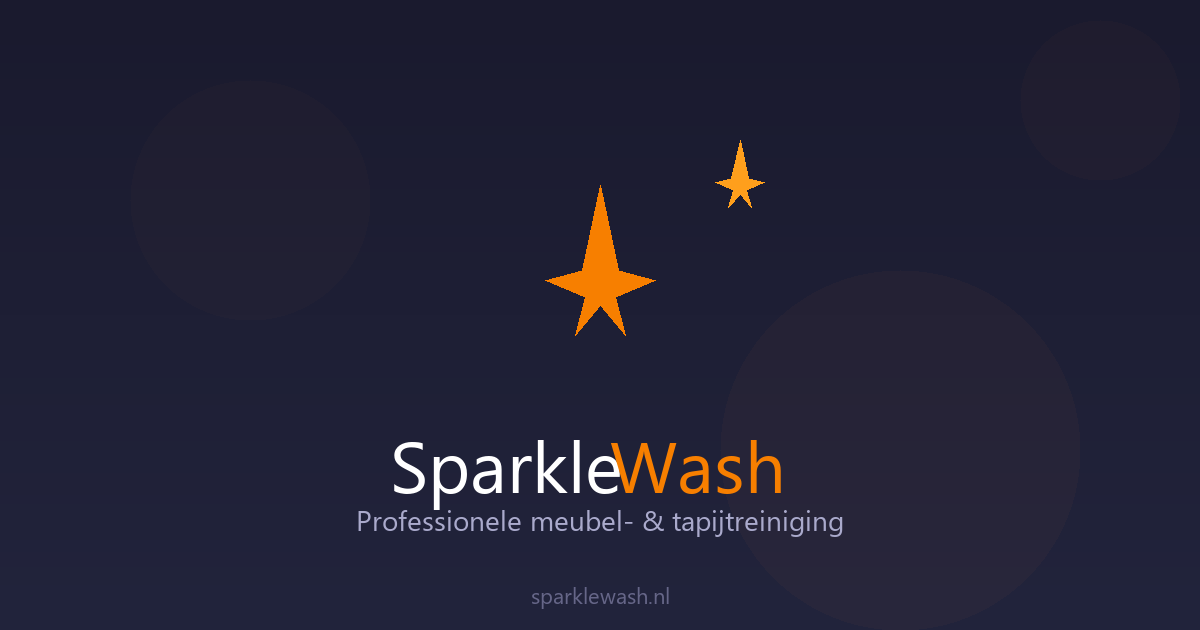
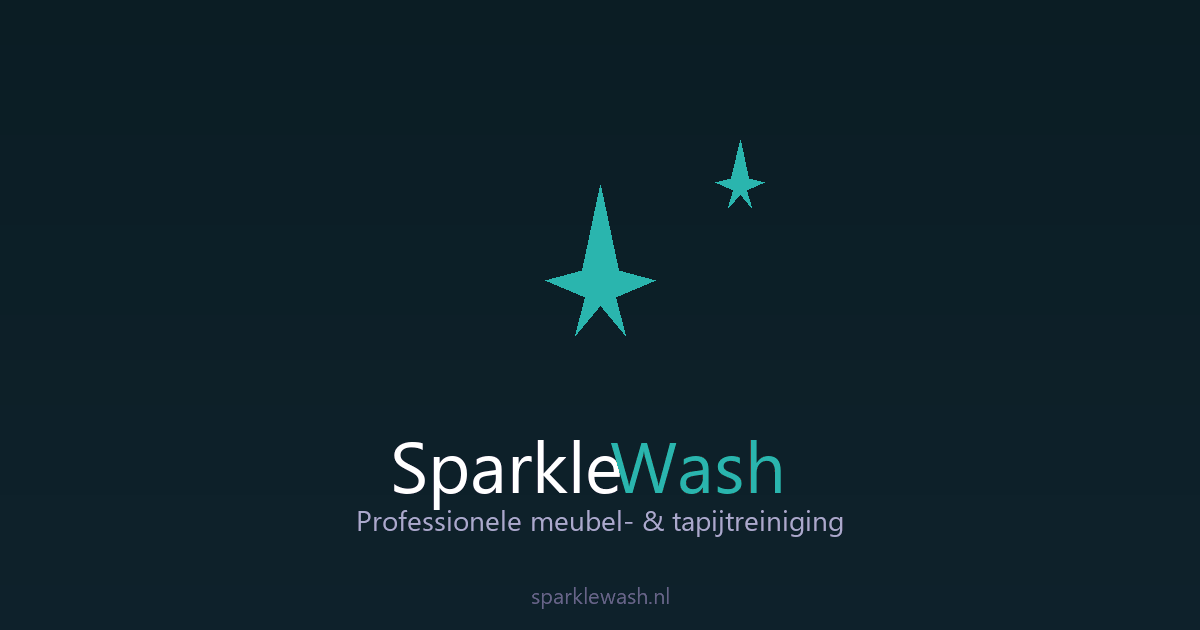
feat: redesign SparkleWash with premium visual system

Changed region(s): [[0.4933, 0.6032, 0.925, 1.0], [0.4625, 0.3016, 0.555, 0.5127], [0.5858, 0.2413, 0.6475, 0.3317]]

diff --git a/css/style.css b/css/style.css
@@ -14,6 +14,13 @@
   --border: #dbe6e8;
   --radius: 12px;
   --shadow: 0 4px 20px rgba(14,124,123,0.10);
+  --ink: #0b1d24;
+  --ink-soft: #12313a;
+  --ivory: #fbfaf6;
+  --sand: #e8dfcc;
+  --champagne: #c8a96b;
+  --bg-card: var(--card-bg);
+  --shadow-premium: 0 24px 70px rgba(11,29,36,0.16);
 }
 
 * { margin:0; padding:0; box-sizing:border-box; }
@@ -1132,3 +1139,178 @@ textarea:focus-visible,
 
 /* Trust bar */
 @media (max-width:480px){.trust-bar{gap:8px;font-size:0.75rem}}
+
+/* ═══════════════════════════════════════════════════════════════
+   SparkleWash Premium — visual system 2026
+   ═══════════════════════════════════════════════════════════════ */
+body { background: var(--ivory); }
+h1, h2, h3, h4, .logo, .footer-logo, .price, .btn {
+  font-family: 'Outfit', 'Inter', sans-serif;
+}
+.container { max-width: 1180px; padding-inline: 28px; }
+.section { padding: 104px 0; }
+.section-title { font-size: clamp(2rem, 4vw, 3.15rem); letter-spacing: -.035em; line-height: 1.08; }
+.section-subtitle { max-width: 680px; font-size: 1.04rem; line-height: 1.75; }
+
+/* Refined top trust strip */
+.trust-bar {
+  min-height: 40px; padding: 9px 24px;
+  display: flex; align-items: center; justify-content: center; flex-wrap: wrap; gap: 12px 34px;
+  background: var(--ink); color: rgba(255,255,255,.82); text-align: center;
+  font-size: .78rem; font-weight: 600; letter-spacing: .035em;
+}
+.trust-bar span { display: inline-flex; align-items: center; }
+.header { background: rgba(251,250,246,.9); border-bottom-color: rgba(11,29,36,.08); }
+.nav-bar { height: 76px; }
+.logo { letter-spacing: -.035em; }
+.nav { gap: 22px; }
+.nav a { font-size: .88rem; letter-spacing: .015em; }
+.lang-btn { border-color: rgba(11,29,36,.12); border-radius: 999px; padding-inline: 12px; }
+
+/* Premium split hero */
+.hero {
+  min-height: 700px; padding: 86px 0 98px; text-align: left;
+  background:
+    radial-gradient(circle at 78% 20%, rgba(14,124,123,.14), transparent 32%),
+    linear-gradient(135deg, #fdfcf8 0%, #f4f0e7 100%);
+}
+.hero::before {
+  content: ''; position: absolute; inset: 0; pointer-events: none;
+  background-image: linear-gradient(rgba(11,29,36,.025) 1px, transparent 1px), linear-gradient(90deg, rgba(11,29,36,.025) 1px, transparent 1px);
+  background-size: 44px 44px; mask-image: linear-gradient(to right, #000, transparent 75%);
+}
+.hero-grid { position: relative; z-index: 2; display: grid; grid-template-columns: minmax(0,1.03fr) minmax(380px,.97fr); gap: 72px; align-items: center; }
+.hero-content { max-width: 660px; }
+.hero-kicker { display: inline-flex; align-items: center; gap: 10px; margin-bottom: 22px; color: var(--accent); font-size: .76rem; font-weight: 800; letter-spacing: .12em; text-transform: uppercase; }
+.hero-kicker-mark { width: 28px; height: 1px; background: var(--champagne); }
+.hero h1 { max-width: 720px; margin-bottom: 22px; color: var(--ink); font-size: clamp(2.65rem, 5.6vw, 5.1rem); line-height: .99; letter-spacing: -.055em; }
+.hero p { max-width: 610px; margin: 0 0 34px; font-size: clamp(1.02rem, 1.8vw, 1.18rem); line-height: 1.75; }
+.hero-buttons { justify-content: flex-start; }
+.btn { min-height: 52px; display: inline-flex; align-items: center; justify-content: center; border-radius: 999px; letter-spacing: .01em; }
+.btn-primary { background: var(--ink); box-shadow: 0 14px 30px rgba(11,29,36,.18); }
+.btn-primary:hover { background: var(--accent); }
+.hero .btn-secondary { color: var(--ink); border-color: rgba(11,29,36,.18); background: rgba(255,255,255,.56); }
+.hero-assurance { display: flex; flex-wrap: wrap; gap: 10px 26px; margin-top: 28px; color: #4e6267; font-size: .8rem; font-weight: 650; }
+.hero-assurance span::before { content: '✓'; margin-right: 8px; color: var(--accent); font-weight: 900; }
+.hero-visual { position: relative; padding: 24px 12px 34px 24px; }
+.hero-visual::before { content: ''; position: absolute; inset: 0 0 12% 10%; border-radius: 44% 44% 12px 12px; background: var(--ink); transform: rotate(2.5deg); }
+.hero-image-shell { position: relative; overflow: hidden; aspect-ratio: 4 / 5; max-height: 560px; border-radius: 220px 220px 18px 18px; background: var(--bg3); box-shadow: var(--shadow-premium); }
+.hero-image-shell img { width: 100%; height: 100%; display: block; object-fit: cover; object-position: center; filter: saturate(.88) contrast(1.03); }
+.hero-image-shell::after { content: ''; position: absolute; inset: 0; box-shadow: inset 0 0 0 1px rgba(255,255,255,.38); border-radius: inherit; pointer-events: none; }
+.hero-result-card { position: absolute; left: -18px; bottom: 0; display: flex; align-items: center; gap: 12px; padding: 15px 22px; border: 1px solid rgba(200,169,107,.5); border-radius: 12px; background: rgba(255,255,255,.94); color: var(--ink); box-shadow: 0 16px 36px rgba(11,29,36,.14); backdrop-filter: blur(12px); font-weight: 750; }
+.hero-result-icon { color: var(--champagne); font-size: 1.4rem; }
+.hero-wave { height: 36px; background: var(--ivory); clip-path: polygon(0 100%,100% 100%,100% 35%,72% 70%,48% 28%,24% 66%,0 38%); }
+
+/* Distinct section rhythms */
+#services { background: var(--ivory); }
+#services .cards { gap: 18px; }
+#services .card { padding: 34px 26px; border: 0; border-top: 2px solid transparent; border-radius: 8px; text-align: left; box-shadow: 0 10px 34px rgba(11,29,36,.07); }
+#services .card:hover { border-top-color: var(--champagne); transform: translateY(-6px); box-shadow: 0 22px 50px rgba(11,29,36,.12); }
+#services .card-icon { width: 50px; height: 50px; margin-bottom: 22px; display: grid; place-items: center; border-radius: 50%; background: rgba(14,124,123,.08); }
+#services .card-icon svg { width: 27px; height: 27px; }
+#services .card h3 { font-size: 1.28rem; }
+#services .card a { font-weight: 700; }
+
+#how { background: var(--ink); }
+#how .section-title { color: #fff; }
+#how .step { border-color: rgba(255,255,255,.1); background: rgba(255,255,255,.055); box-shadow: none; }
+#how .step:hover { border-color: rgba(200,169,107,.55); background: rgba(255,255,255,.08); }
+#how .step h3 { color: #fff; }
+#how .step p { color: rgba(255,255,255,.66); }
+#how .step-number { background: var(--champagne); color: var(--ink); }
+#how .step-icon svg { color: #66c7c4; }
+
+#pricing { background: #edf4f3; }
+#pricing .price-card { border: 0; border-radius: 8px; box-shadow: 0 8px 28px rgba(11,29,36,.065); }
+#pricing .price-card.featured { background: var(--ink); transform: translateY(-8px); box-shadow: var(--shadow-premium); }
+#pricing .price-card.featured h3, #pricing .price-card.featured p { color: #fff; }
+#pricing .price-card.featured .price { color: #7bd2ce; }
+#pricing .featured-tag { background: var(--champagne); color: var(--ink); }
+
+#gallery { background: linear-gradient(145deg, var(--ink) 0%, var(--ink-soft) 100%); }
+#gallery .section-title { color: #fff; }
+#gallery .section-subtitle { color: rgba(255,255,255,.68); }
+#gallery .gallery-grid { grid-template-columns: repeat(2,minmax(0,1fr)); gap: 26px; }
+#gallery .ba-item { padding: 12px; border-color: rgba(255,255,255,.12); border-radius: 16px; background: rgba(255,255,255,.07); text-align: left; }
+#gallery .ba-item:hover { border-color: rgba(200,169,107,.55); box-shadow: 0 24px 60px rgba(0,0,0,.24); }
+#gallery .ba-title { padding: 12px 12px 0; color: #fff; font-size: 1.25rem; }
+#gallery .ba-desc { padding: 0 12px; color: rgba(255,255,255,.62); }
+#gallery .ba-slider { height: 360px; border-radius: 10px; }
+
+#area { background: var(--ivory); }
+.area-grid > div { padding: 28px; border-left: 2px solid var(--champagne); background: #fff; box-shadow: 0 10px 32px rgba(11,29,36,.06); }
+#about { background: #f0ebe0; }
+#about .about-content { max-width: 820px; text-align: center; }
+#about .stats-grid { max-width: 1000px; margin-inline: auto; }
+#about .stat-card { border: 0; background: rgba(255,255,255,.72); }
+
+#calculator { background: var(--ivory); }
+.calc-box, .booking-box { border: 0; border-radius: 14px; box-shadow: 0 18px 50px rgba(11,29,36,.09); }
+.calc-box h3, .booking-box h3 { color: var(--ink); }
+.calc-qty-row input[type="number"] { color: var(--text); background: #fff; }
+.booking-form input, .booking-form select { color: var(--text); background: #fff; }
+.booking-form select option { color: var(--text); background: #fff; }
+.wizard-step-title, .wizard-service-name, .wizard-summary strong { color: var(--ink); }
+.wizard-step input[type="text"], .wizard-step input[type="email"], .wizard-step input[type="tel"] { color: var(--text); background: #fff; }
+
+#faq { background: #edf4f3; }
+#faq .faq-item { border: 0; border-radius: 8px; box-shadow: 0 5px 20px rgba(11,29,36,.055); }
+#testimonials { background: var(--ivory); }
+.google-reviews-bar { padding: 24px 28px; border: 0; border-left: 3px solid var(--champagne); border-radius: 6px; box-shadow: 0 12px 40px rgba(11,29,36,.07); }
+.testimonial-card { border: 0; border-top: 2px solid var(--champagne); border-radius: 6px; box-shadow: 0 10px 32px rgba(11,29,36,.06); }
+.testimonial-text { font-style: normal; }
+
+.footer { padding-top: 64px; background: var(--ink); border: 0; }
+.footer-logo, .footer-col h4, .footer-social a { color: #fff; }
+.footer p, .footer-links a { color: rgba(255,255,255,.58); }
+.footer-social a, .share-btn { background: rgba(255,255,255,.06); border-color: rgba(255,255,255,.12); }
+.footer-bottom { border-top-color: rgba(255,255,255,.1); }
+.footer-share { display: none; }
+.whatsapp-float { background: var(--cta-whatsapp); }
+.cookie-btn-reject:hover { background: rgba(11,29,36,.06); color: var(--ink); }
+
+@media (max-width: 980px) {
+  .hero { min-height: auto; padding-top: 64px; }
+  .hero-grid { grid-template-columns: 1fr 380px; gap: 38px; }
+  .hero h1 { font-size: clamp(2.7rem,6vw,4rem); }
+  .nav { display: none; }
+  .nav.open { display: flex; flex-direction: column; position: absolute; top: 76px; left: 0; right: 0; padding: 24px 28px; gap: 18px; background: var(--ivory); border-bottom: 2px solid var(--accent); box-shadow: var(--shadow-premium); }
+  .hamburger { display: block; min-width: 44px; min-height: 44px; }
+}
+@media (max-width: 768px) {
+  .container { padding-inline: 20px; }
+  .section { padding: 76px 0; }
+  .nav.open { top: 76px; background: var(--ivory); }
+  .hero { padding: 54px 0 62px; }
+  .hero-grid { grid-template-columns: 1fr; gap: 42px; }
+  .hero-content { text-align: center; margin-inline: auto; }
+  .hero-kicker, .hero-buttons, .hero-assurance { justify-content: center; }
+  .hero p { margin-inline: auto; }
+  .hero-visual { width: min(100%,470px); margin-inline: auto; padding-left: 12px; }
+  .hero-result-card { left: -4px; }
+  #gallery .gallery-grid { grid-template-columns: 1fr; }
+  #gallery .ba-slider { height: 300px; }
+  #about .stats-grid { grid-template-columns: repeat(2,1fr) !important; }
+}
+@media (max-width: 480px) {
+  .trust-bar { gap: 6px 16px; padding-inline: 10px; font-size: .68rem; }
+  .trust-bar span:nth-child(2) { display: none; }
+  .hero h1 { font-size: clamp(2.25rem,12vw,3rem); }
+  .hero p { font-size: .98rem; }
+  .hero-buttons { flex-direction: column; }
+  .hero-buttons .btn { width: 100%; }
+  .hero-assurance { flex-direction: column; gap: 7px; }
+  .hero-image-shell { aspect-ratio: 4 / 4.7; }
+  .hero-result-card { padding: 12px 16px; font-size: .86rem; }
+  #gallery .ba-slider { height: 245px; }
+  #about .stats-grid { grid-template-columns: 1fr !important; }
+  .area-grid > div { padding: 22px; }
+}
+@media (max-width: 380px) {
+  .container { padding-inline: 16px; }
+  .logo { font-size: 1.05rem; gap: 5px; }
+  .logo-icon { width: 22px; height: 22px; }
+  .lang-switcher { gap: 1px; }
+  .lang-btn { width: 30px; min-width: 30px; min-height: 40px; padding: 0; font-size: .64rem; }
+  .hamburger { min-width: 38px; width: 38px; padding: 0; }
+}

diff --git a/index.html b/index.html
@@ -78,7 +78,7 @@
   <link rel="preconnect" href="https://fonts.gstatic.com" crossorigin>
   <link rel="stylesheet" href="https://fonts.googleapis.com/css2?family=Inter:wght@400;500;600;700;800&family=Outfit:wght@400;500;600;700;800&display=swap">
   <link rel="preload" href="images/favicon.svg" as="image" type="image/svg+xml">
-  <link rel="stylesheet" href="css/style.css?v=99">
+  <link rel="stylesheet" href="css/style.css?v=101">
   <link rel="icon" type="image/svg+xml" href="images/favicon.svg">
   <link rel="alternate icon" type="image/png" href="images/favicon.png">
   <link rel="canonical" href="https://sparklewash.nl/" id="canonical-link">
@@ -93,10 +93,9 @@
     </div>
   </div>
     <!-- Trust Bar -->
-  <div class="trust-bar" style="background:var(--accent);color:#fff;text-align:center;padding:10px 16px;font-size:0.85rem;display:flex;justify-content:center;gap:24px;flex-wrap:wrap;">
+  <div class="trust-bar">
     <span data-i18n="trust-rating">⭐ Bekijk onze Google-reviews</span>
     <span data-i18n="trust-customers">📍 Heerlen, Limburg & Grensregio</span>
-    <span data-i18n="trust-team">📅 Professioneel reinigingsteam</span>
     <span data-i18n="trust-guarantee">🛡️ 7 dagen tevredenheidsgarantie</span>
   </div>
 
@@ -128,12 +127,28 @@
 
   <!-- Hero -->
   <section class="hero">
-    <div class="container hero-content">
-      <h1 data-i18n="hero-title">SparkleWash — Tapijtreiniging & Meubelreiniging in Limburg</h1>
-      <p data-i18n="hero-subtitle">Professionele extractiereiniging — tapijten, banken, matrassen, auto-interieurs. Wij komen naar u toe in heel Limburg en de Duitse grensregio.</p>
-      <div class="hero-buttons">
-        <a href="https://wa.me/[phone redacted]?text=Hallo!%20Ik%20wil%20graag%20een%20offerte%20voor%20meubelreiniging." class="btn btn-primary" data-i18n="hero-cta" target="_blank" rel="noopener">Direct via WhatsApp</a>
-        <a href="#pricing" class="btn btn-secondary" data-i18n="hero-pricing">Bekijk prijzen</a>
+    <div class="container hero-grid">
+      <div class="hero-content">
+        <div class="hero-kicker"><span class="hero-kicker-mark"></span><span data-i18n="hero-area-proof">Heerlen, Limburg & Grensregio</span></div>
+        <h1 data-i18n="hero-title">SparkleWash — Tapijtreiniging & Meubelreiniging in Limburg</h1>
+        <p data-i18n="hero-subtitle">Professionele extractiereiniging — tapijten, banken, matrassen, auto-interieurs. Wij komen naar u toe in heel Limburg en de Duitse grensregio.</p>
+        <div class="hero-buttons">
+          <a href="https://wa.me/[phone redacted]?text=Hallo!%20Ik%20wil%20graag%20een%20offerte%20voor%20meubelreiniging." class="btn btn-primary" data-i18n="hero-cta" target="_blank" rel="noopener">Direct via WhatsApp</a>
+          <a href="#gallery" class="btn btn-secondary" data-i18n="gallery-title">Voor & Nadien</a>
+        </div>
+        <div class="hero-assurance">
+          <span data-i18n="hero-review-proof">Bekijk onze Google-reviews</span>
+          <span data-i18n="hero-guarantee-proof">7 dagen tevredenheidsgarantie</span>
+        </div>
+      </div>
+      <div class="hero-visual" aria-label="Resultaat van professionele meubelreiniging">
+        <div class="hero-image-shell">
+          <img src="images/sofa-after.webp" alt="Professioneel gereinigde stoffen bank door SparkleWash" width="1280" height="960" fetchpriority="high">
+        </div>
+        <div class="hero-result-card">
+          <span class="hero-result-icon" aria-hidden="true">✦</span>
+          <span data-i18n="how-step4-title">Resultaat</span>
+        </div>
       </div>
     </div>
     <div class="hero-wave"></div>
@@ -272,7 +287,7 @@
       <div class="gallery-grid">
         <!-- Tile 1: Sofa/Bank -->
         <div class="ba-item" data-service="sofa">
-          <h3 class="ba-title" data-i18n="gallery-item-sofa">🛋️ Bank & Fauteuil</h3>
+          <h3 class="ba-title" data-i18n="gallery-item-sofa">Bank & Fauteuil</h3>
           <p class="ba-desc" data-i18n="gallery-item-sofa-desc">Voor en na grondige extractiereiniging van een stoffen bank. Vlekken en geuren verwijderd.</p>
           <div class="ba-slider" data-ba="sofa">
             <div class="ba-img ba-img-after" data-label-after="Po" style="background-image: url('images/sofa-after.webp'); background-size: cover; background-position: center;">
@@ -288,7 +303,7 @@
 
         <!-- Tile 3: Velvet Sofa (Turcja klientka) -->
         <div class="ba-item" data-service="sofa">
-          <h3 class="ba-title" data-i18n="gallery-item-velvet">🛋️ Bank Velvet — Geleen</h3>
+          <h3 class="ba-title" data-i18n="gallery-item-velvet">Bank Velvet — Geleen</h3>
           <p class="ba-desc" data-i18n="gallery-item-velvet-desc">Velvet bank gereinigd na jaren gebruik. Opvallend verschil voor en na extractiereiniging.</p>
           <div class="ba-slider" data-ba="velvet">
             <div class="ba-img ba-img-after" data-label-after="Po" style="background-image: url('images/portfolio-sofa1-after.webp'); background-size: cover; background-position: center;">
@@ -555,8 +570,8 @@
     <svg viewBox="0 0 24 24" width="26" height="26" fill="currentColor" aria-hidden="true"><path d="M17.472 14.382c-.297-.149-1.758-.867-2.03-.967-.273-.099-.471-.148-.67.15-.197.297-.767.966-.94 1.164-.173.199-.347.223-.644.075-.297-.15-1.255-.463-2.39-1.475-.883-.788-1.48-1.761-1.653-2.059-.173-.297-.018-.458.13-.606.134-.133.298-.347.446-.52.149-.174.198-.298.298-.497.099-.198.05-.371-.025-.52-.075-.149-.669-1.612-.916-2.207-.242-.579-.487-.5-.669-.51-.173-.008-.371-.01-.57-.01-.198 0-.52.074-.792.372-.272.297-1.04 1.016-1.04 2.479 0 1.462 1.065 2.875 1.213 3.074.149.198 2.096 3.2 5.077 4.487.709.306 1.262.489 1.694.625.712.227 1.36.195 1.871.118.571-.085 1.758-.719 2.006-1.413.248-.694.248-1.289.173-1.413-.074-.124-.272-.198-.57-.347m-5.421 7.403h-.004a9.87 9.87 0 01-5.031-1.378l-.361-.214-3.741.982.998-3.648-.235-.374a9.86 9.86 0 01-1.51-5.26c.001-5.45 4.436-9.884 9.888-9.884 2.64 0 5.122 1.03 6.988 2.898a9.825 9.825 0 012.893 6.994c-.003 5.45-4.437 9.884-9.885 9.884m8.413-18.297A11.815 11.815 0 0012.05 0C5.495 0 .16 5.335.157 11.892c0 2.096.547 4.142 1.588 5.945L.057 24l6.305-1.654a11.882 11.882 0 005.683 1.448h.005c6.554 0 11.89-5.335 11.893-11.893a11.821 11.821 0 00-3.48-8.413z"/></svg>
   </a>
 
-  <script src="js/i18n.js?v=99"></script>
-  <script src="js/slider.js?v=99"></script>
+  <script src="js/i18n.js?v=101"></script>
+  <script src="js/slider.js?v=101"></script>
   <script src="js/main.js?v=99"></script>
 
   <script type="application/ld+json">

diff --git a/js/i18n.js b/js/i18n.js
@@ -201,7 +201,7 @@ const I18N = {
       'gallery-subtitle': 'Bekijk onze resultaten — echte voorbeelden van onze reinigingen in Limburg en omgeving.',
       'gallery-item-sofa': 'Bank & Fauteuil',
       'gallery-item-sofa-desc': 'Voor en na grondige extractiereiniging van een stoffen bank. Vlekken en geuren verwijderd.',
-      'gallery-item-velvet': '🛋️ Bank Velvet — Geleen',
+      'gallery-item-velvet': 'Bank Velvet — Geleen',
       'gallery-item-velvet-desc': 'Velvet bank gereinigd na jaren gebruik. Opvallend verschil voor en na extractiereiniging.',
       'gallery-item-carpet': 'Tapijt & Vloerkleed',
       'gallery-item-carpet-desc': 'Een vloerkleed na professionele extractiereiniging. Diep gereinigd tot in de vezels.',
@@ -306,6 +306,9 @@ const I18N = {
       'trust-customers': '📍 Heerlen, Limburg & Grensregio',
       'trust-team': '📅 Professioneel reinigingsteam',
       'trust-guarantee': '🛡️ 7 dagen tevredenheidsgarantie',
+      'hero-area-proof': 'Heerlen, Limburg & Grensregio',
+      'hero-review-proof': 'Bekijk onze Google-reviews',
+      'hero-guarantee-proof': '7 dagen tevredenheidsgarantie',
     },
     de: {
       'sofa-page-title': 'Sofa & Sessel Reinigung Heerlen — SparkleWash',
@@ -505,7 +508,7 @@ const I18N = {
       'gallery-subtitle': 'Sehen Sie sich unsere Ergebnisse an — echte Beispiele unserer Reinigungen in Limburg und Umgebung.',
       'gallery-item-sofa': 'Sofa & Sessel',
       'gallery-item-sofa-desc': 'Vor und nach einer gründlichen Extraktionsreinigung eines Stoffsofas. Flecken und Gerüche entfernt.',
-      'gallery-item-velvet': '🛋️ Sofa Velvet — Geleen',
+      'gallery-item-velvet': 'Sofa Velvet — Geleen',
       'gallery-item-velvet-desc': 'Velvet-Sofa nach jahrelanger Nutzung gereinigt. Auffälliger Unterschied vor und nach der Extraktionsreinigung.',
       'gallery-item-carpet': 'Teppich & Läufer',
       'gallery-item-carpet-desc': 'Ein Teppich nach professioneller Extraktionsreinigung. Tiefengereinigt bis in die Fasern.',
@@ -610,6 +613,9 @@ const I18N = {
       'trust-customers': '📍 Heerlen, Limburg & Grenzregion',
       'trust-team': '📅 Professionelles Reinigungsteam',
       'trust-guarantee': '🛡️ 7 Tage Zufriedenheitsgarantie',
+      'hero-area-proof': 'Heerlen, Limburg & Grenzregion',
+      'hero-review-proof': 'Unsere Google-Bewertungen ansehen',
+      'hero-guarantee-proof': '7 Tage Zufriedenheitsgarantie',
     },
     en: {
       'sofa-page-title': 'Sofa & Armchair Cleaning Heerlen — SparkleWash',
@@ -809,7 +815,7 @@ const I18N = {
       'gallery-subtitle': 'See our results — real examples of our cleanings in Limburg and surrounding areas.',
       'gallery-item-sofa': 'Sofa & Armchair',
       'gallery-item-sofa-desc': 'Before and after a thorough extraction cleaning of a fabric sofa. Stains and odors removed.',
-      'gallery-item-velvet': '🛋️ Velvet Sofa — Geleen',
+      'gallery-item-velvet': 'Velvet Sofa — Geleen',
       'gallery-item-velvet-desc': 'Velvet sofa cleaned after years of use. Striking difference before and after extraction cleaning.',
       'gallery-item-carpet': 'Carpet & Rug',
       'gallery-item-carpet-desc': 'A rug after professional extraction cleaning. Deep cleaned down to the fibers.',
@@ -914,6 +920,9 @@ const I18N = {
       'trust-customers': '📍 Heerlen, Limburg & Border Region',
       'trust-team': '📅 Professional cleaning team',
       'trust-guarantee': '🛡️ 7-day satisfaction guarantee',
+      'hero-area-proof': 'Heerlen, Limburg & Border Region',
+      'hero-review-proof': 'View our Google reviews',
+      'hero-guarantee-proof': '7-day satisfaction guarantee',
     },
     pl: {
       'sofa-page-title': 'Pranie Sof i Foteli w Heerlen — SparkleWash',
@@ -1113,7 +1122,7 @@ const I18N = {
       'gallery-subtitle': 'Zobacz nasze efekty — prawdziwe przykłady naszych czyszczeń w Limburgii i okolicy.',
       'gallery-item-sofa': 'Sofa & Fotele',
       'gallery-item-sofa-desc': 'Przed i po dokładnym praniu ekstrakcyjnym sofy materiałowej. Plamy i zapachy usunięte.',
-      'gallery-item-velvet': '🛋️ Sofa Welwet — Geleen',
+      'gallery-item-velvet': 'Sofa Welwet — Geleen',
       'gallery-item-velvet-desc': 'Sofa welwetowa wyczyszczona po latach użytkowania. Uderzająca różnica przed i po praniu ekstrakcyjnym.',
       'gallery-item-carpet': 'Dywan & Wykładzina',
       'gallery-item-carpet-desc': 'Dywan po profesjonalnym praniu ekstrakcyjnym. Dogłębnie wyczyszczony do włókien.',
@@ -1217,7 +1226,10 @@ const I18N = {
       'trust-rating': '⭐ Zobacz opinie Google',
       'trust-customers': '📍 Heerlen, Limburgia & Region przygraniczny',
       'trust-team': '📅 Profesjonalny zespół sprzątający',
-      'trust-guarantee': '🛡️ 30-dniowa gwarancja satysfakcji',
+      'trust-guarantee': '🛡️ 7-dniowa gwarancja satysfakcji',
+      'hero-area-proof': 'Heerlen, Limburgia & Region przygraniczny',
+      'hero-review-proof': 'Zobacz nasze opinie Google',
+      'hero-guarantee-proof': '7-dniowa gwarancja satysfakcji',
     }
   },
   t(key) {
@@ -1282,6 +1294,7 @@ const I18N = {
       b.classList.toggle('active', b.dataset.lang === lang);
     });
     this.translatePage();
+    document.dispatchEvent(new CustomEvent('sparklewash:languagechange', { detail: { lang } }));
   }
 };
 

diff --git a/js/slider.js b/js/slider.js
@@ -11,9 +11,21 @@ function initBeforeAfterSliders() {
 
     let isDragging = false;
 
-    // ── Labels ──
-    beforeEl.setAttribute('data-label-before', 'VOOR / PRZED');
-    afterEl.setAttribute('data-label-after', 'NA / PO');
+    // ── Localized labels ──
+    function updateLabels() {
+      const lang = typeof I18N !== 'undefined' ? I18N.current : 'nl';
+      const labels = {
+        nl: { before: 'VOOR', after: 'NA' },
+        de: { before: 'VORHER', after: 'NACHHER' },
+        en: { before: 'BEFORE', after: 'AFTER' },
+        pl: { before: 'PRZED', after: 'PO' }
+      };
+      const current = labels[lang] || labels.nl;
+      beforeEl.setAttribute('data-label-before', current.before);
+      afterEl.setAttribute('data-label-after', current.after);
+    }
+    updateLabels();
+    document.addEventListener('sparklewash:languagechange', updateLabels);
 
     // ── Update position (0-100%) ──
     function setPosition(pct) {